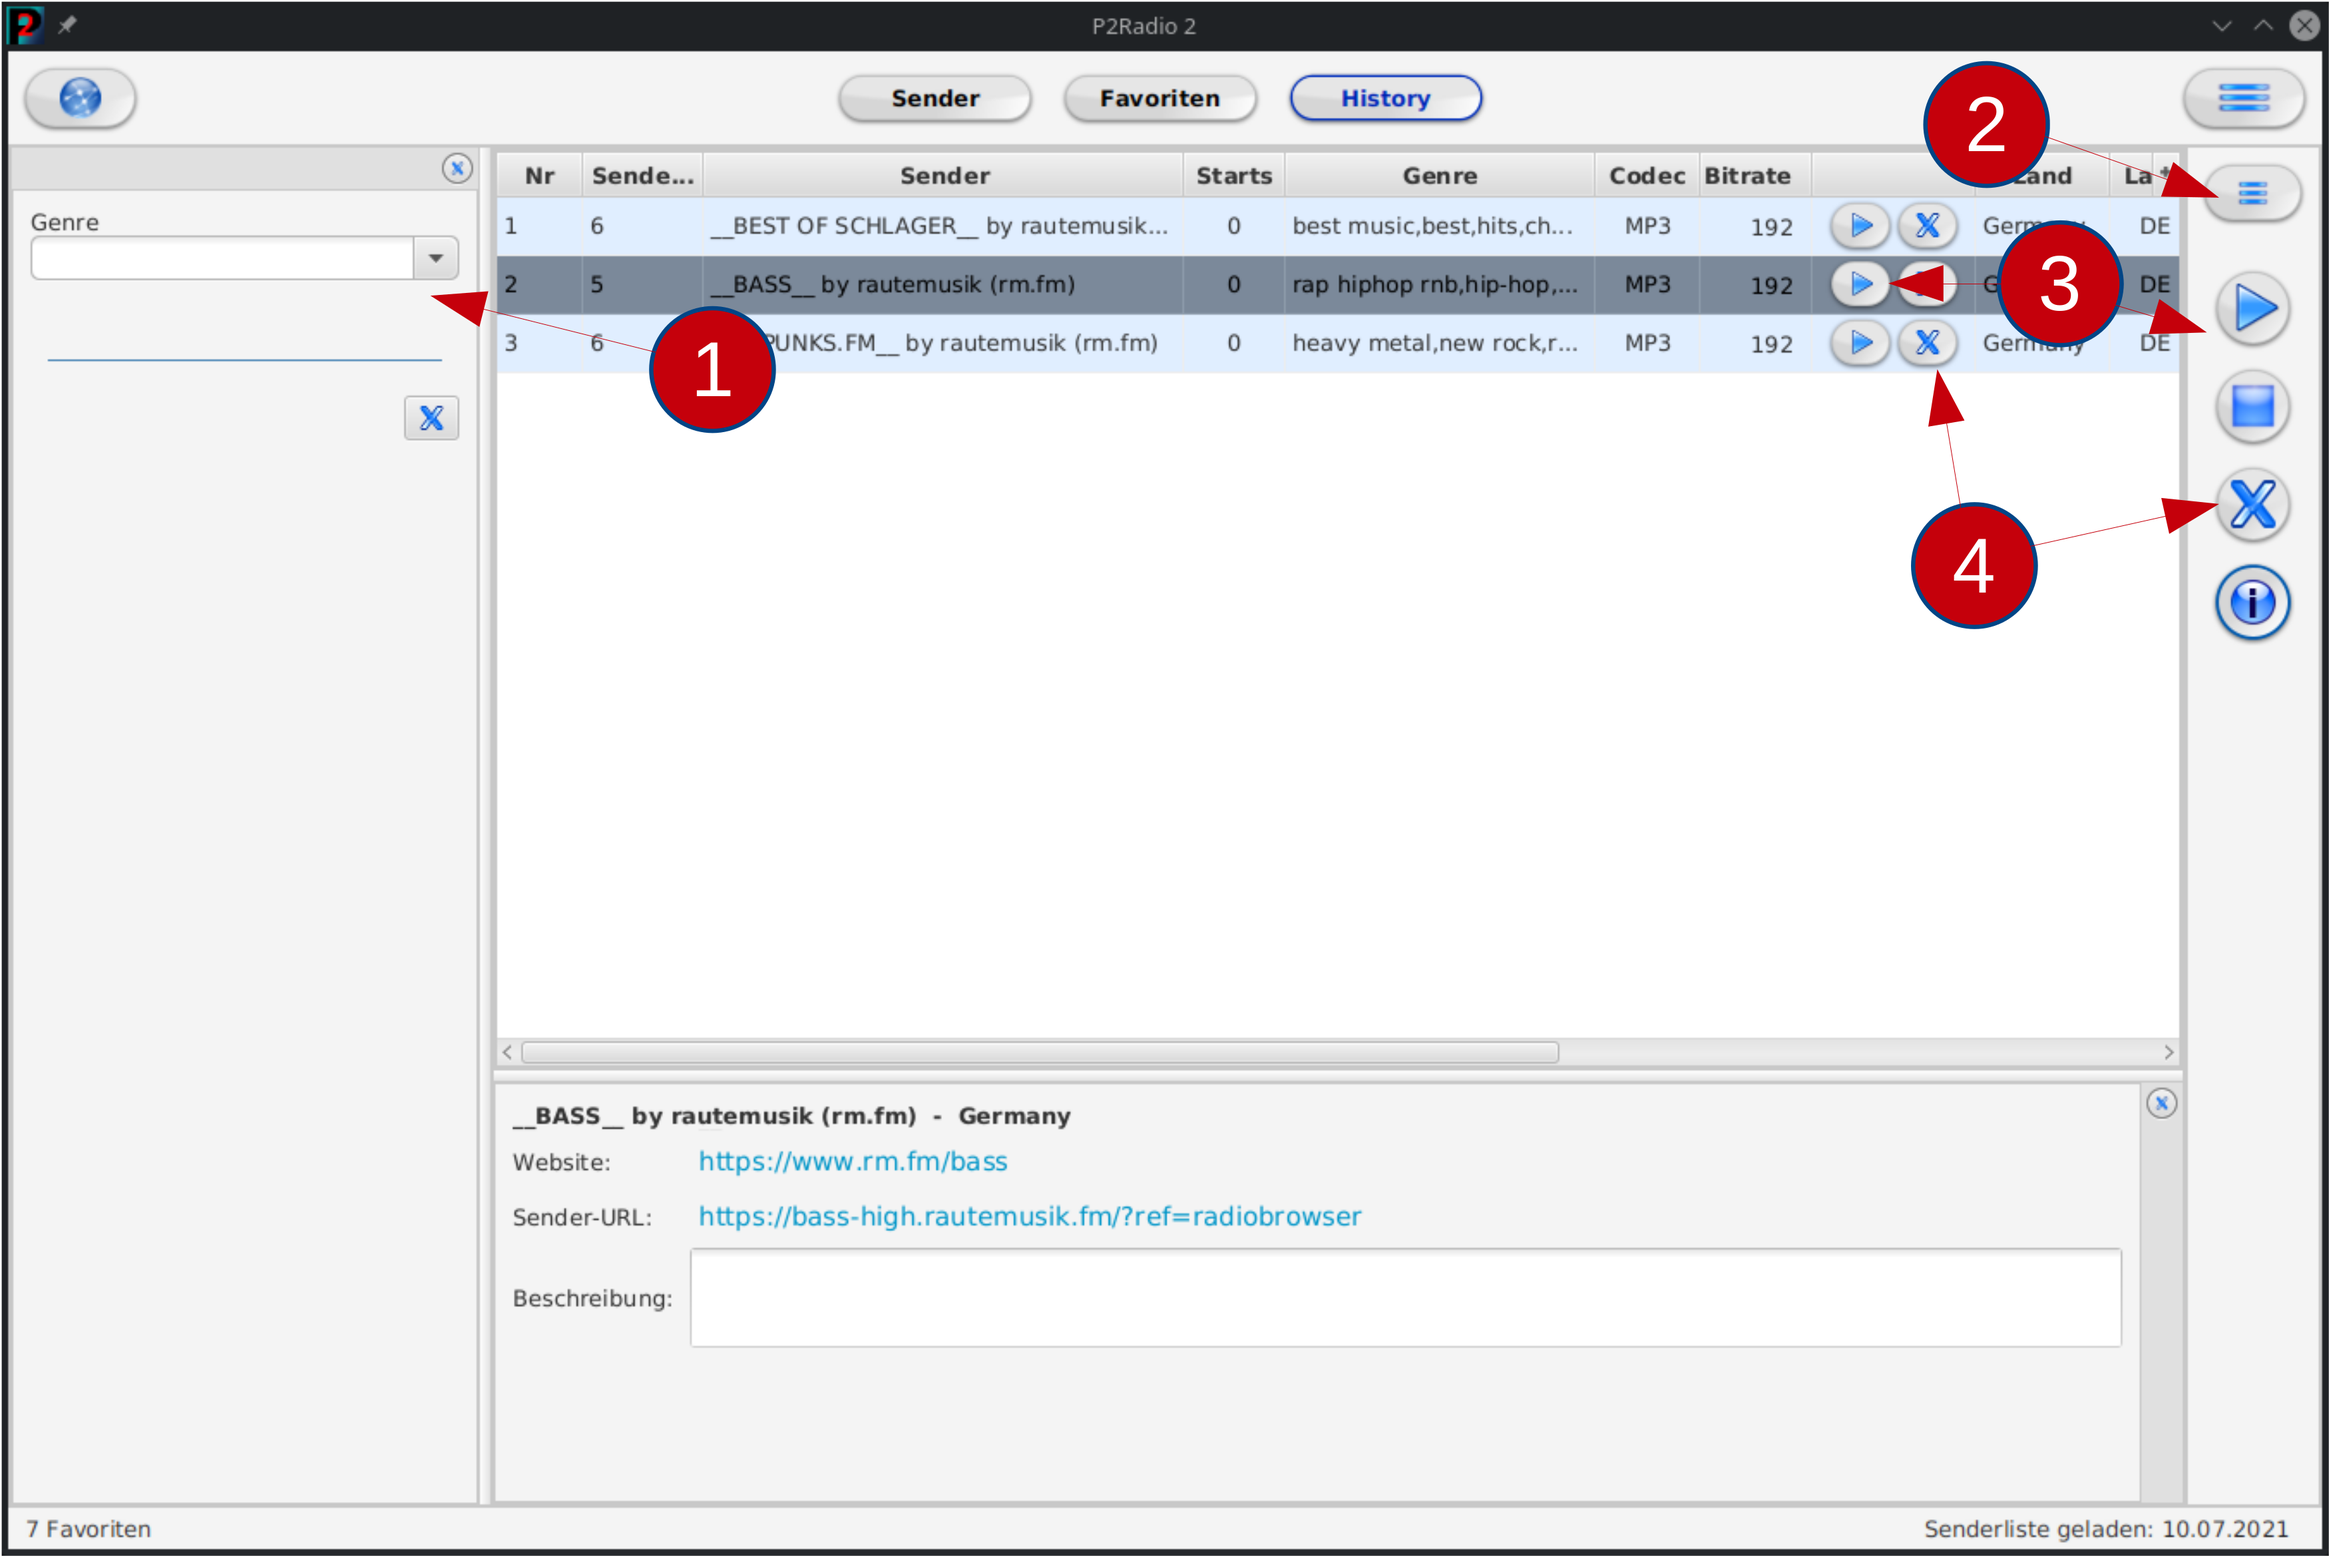
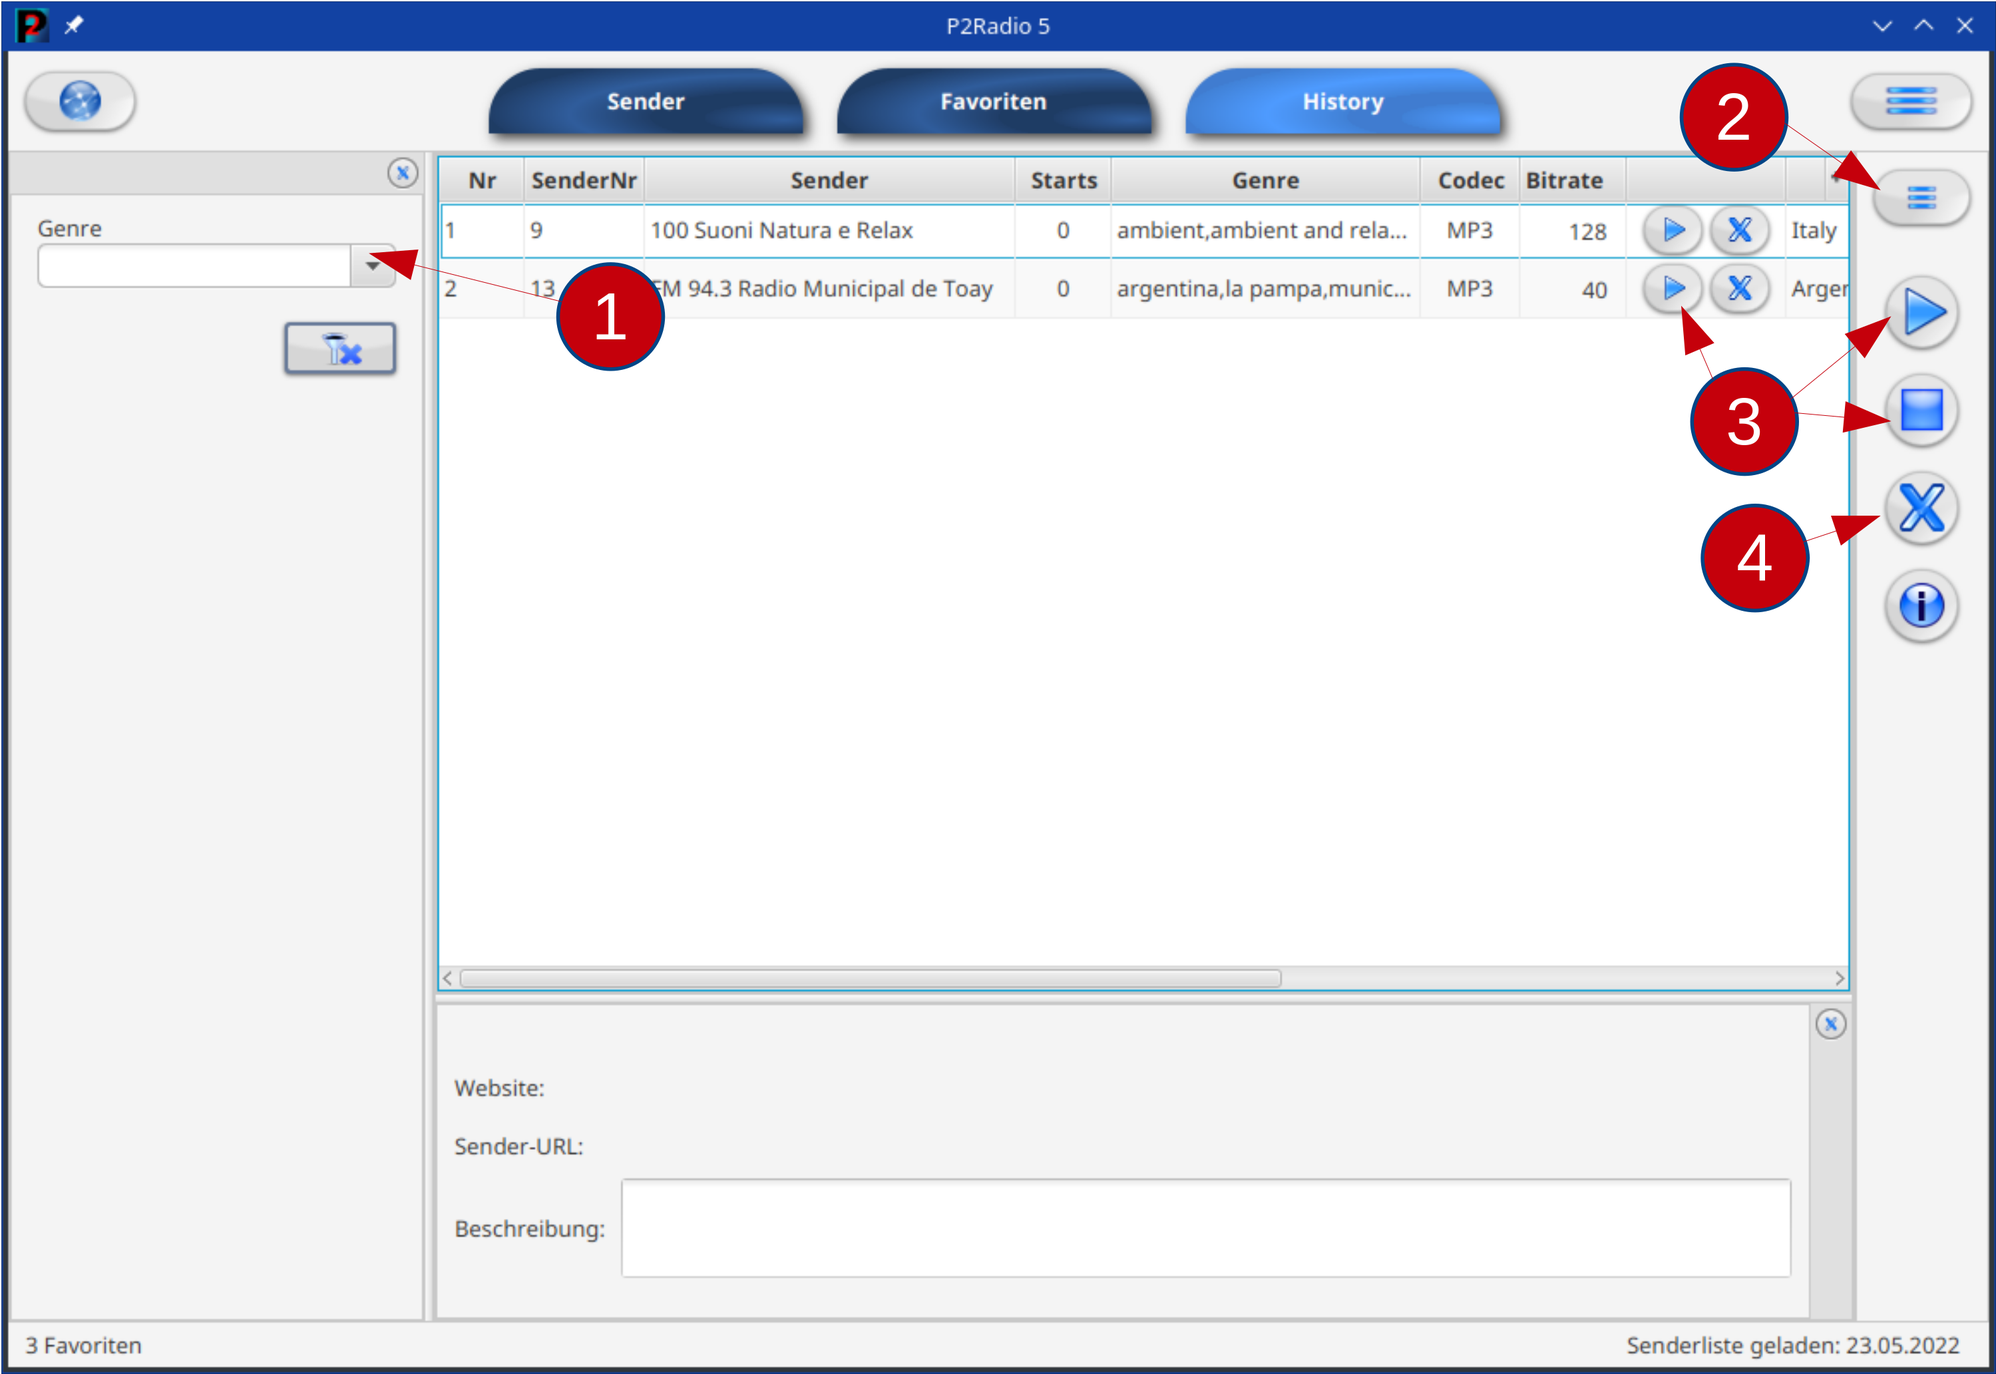
Version-5

Changed region(s): [[0.0, 0.0, 1.0, 1.0], [0.3101, 0.8058, 0.9303, 0.8678]]

diff --git a/src/main/java/de/p2tools/p2radio/gui/startDialog/StartPane.java b/src/main/java/de/p2tools/p2radio/gui/startDialog/StartPane.java
@@ -77,7 +77,11 @@ public class StartPane {
 
                 P2LibConst.LINE_SEPARATORx2 +
                 "8) Damit können Sender zu" + P2LibConst.LINE_SEPARATOR +
-                "den Favoriten hinzugefügt werden.");
+                "den Favoriten hinzugefügt werden." +
+
+                P2LibConst.LINE_SEPARATORx2 +
+                "9) Hier kann ein zufälliger Sender" + P2LibConst.LINE_SEPARATOR +
+                "zum Abspielen ausgewählt werden.");
 
         hBox.getChildren().addAll(iv, text);
         TitledPane tpConfig = new TitledPane("Infos zur Programmoberfläche", hBox);
@@ -109,7 +113,11 @@ public class StartPane {
                 "gestartet und gestoppt" +
                 P2LibConst.LINE_SEPARATORx2 +
 
-                "4) Hier können die Favoriten" + P2LibConst.LINE_SEPARATOR +
+                "4) Damit kann ein eigener Sender zu" + P2LibConst.LINE_SEPARATOR +
+                "den Favoriten hinzugefügt werden." +
+                P2LibConst.LINE_SEPARATORx2 +
+
+                "5) Hier können die Favoriten" + P2LibConst.LINE_SEPARATOR +
                 "geändert oder gelöscht (\"X\") werden.");
         hBox.getChildren().add(text);
 

diff --git a/RELEASE.md b/RELEASE.md
@@ -2,6 +2,16 @@
 
 <br />
 
+**Release 5**
+
+* GUI: Es gab einige Änderungen/Anpassungen
+* Intern wurde einiges angepasst
+* Menü: Einige Anpassungen
+* ...
+
+<br />
+
+
 **Release 4**
 
 * Tray: Das Programm kann ins Tray gelegt werden -> In den Einstellungen kann das Tray eingeschaltet werden
